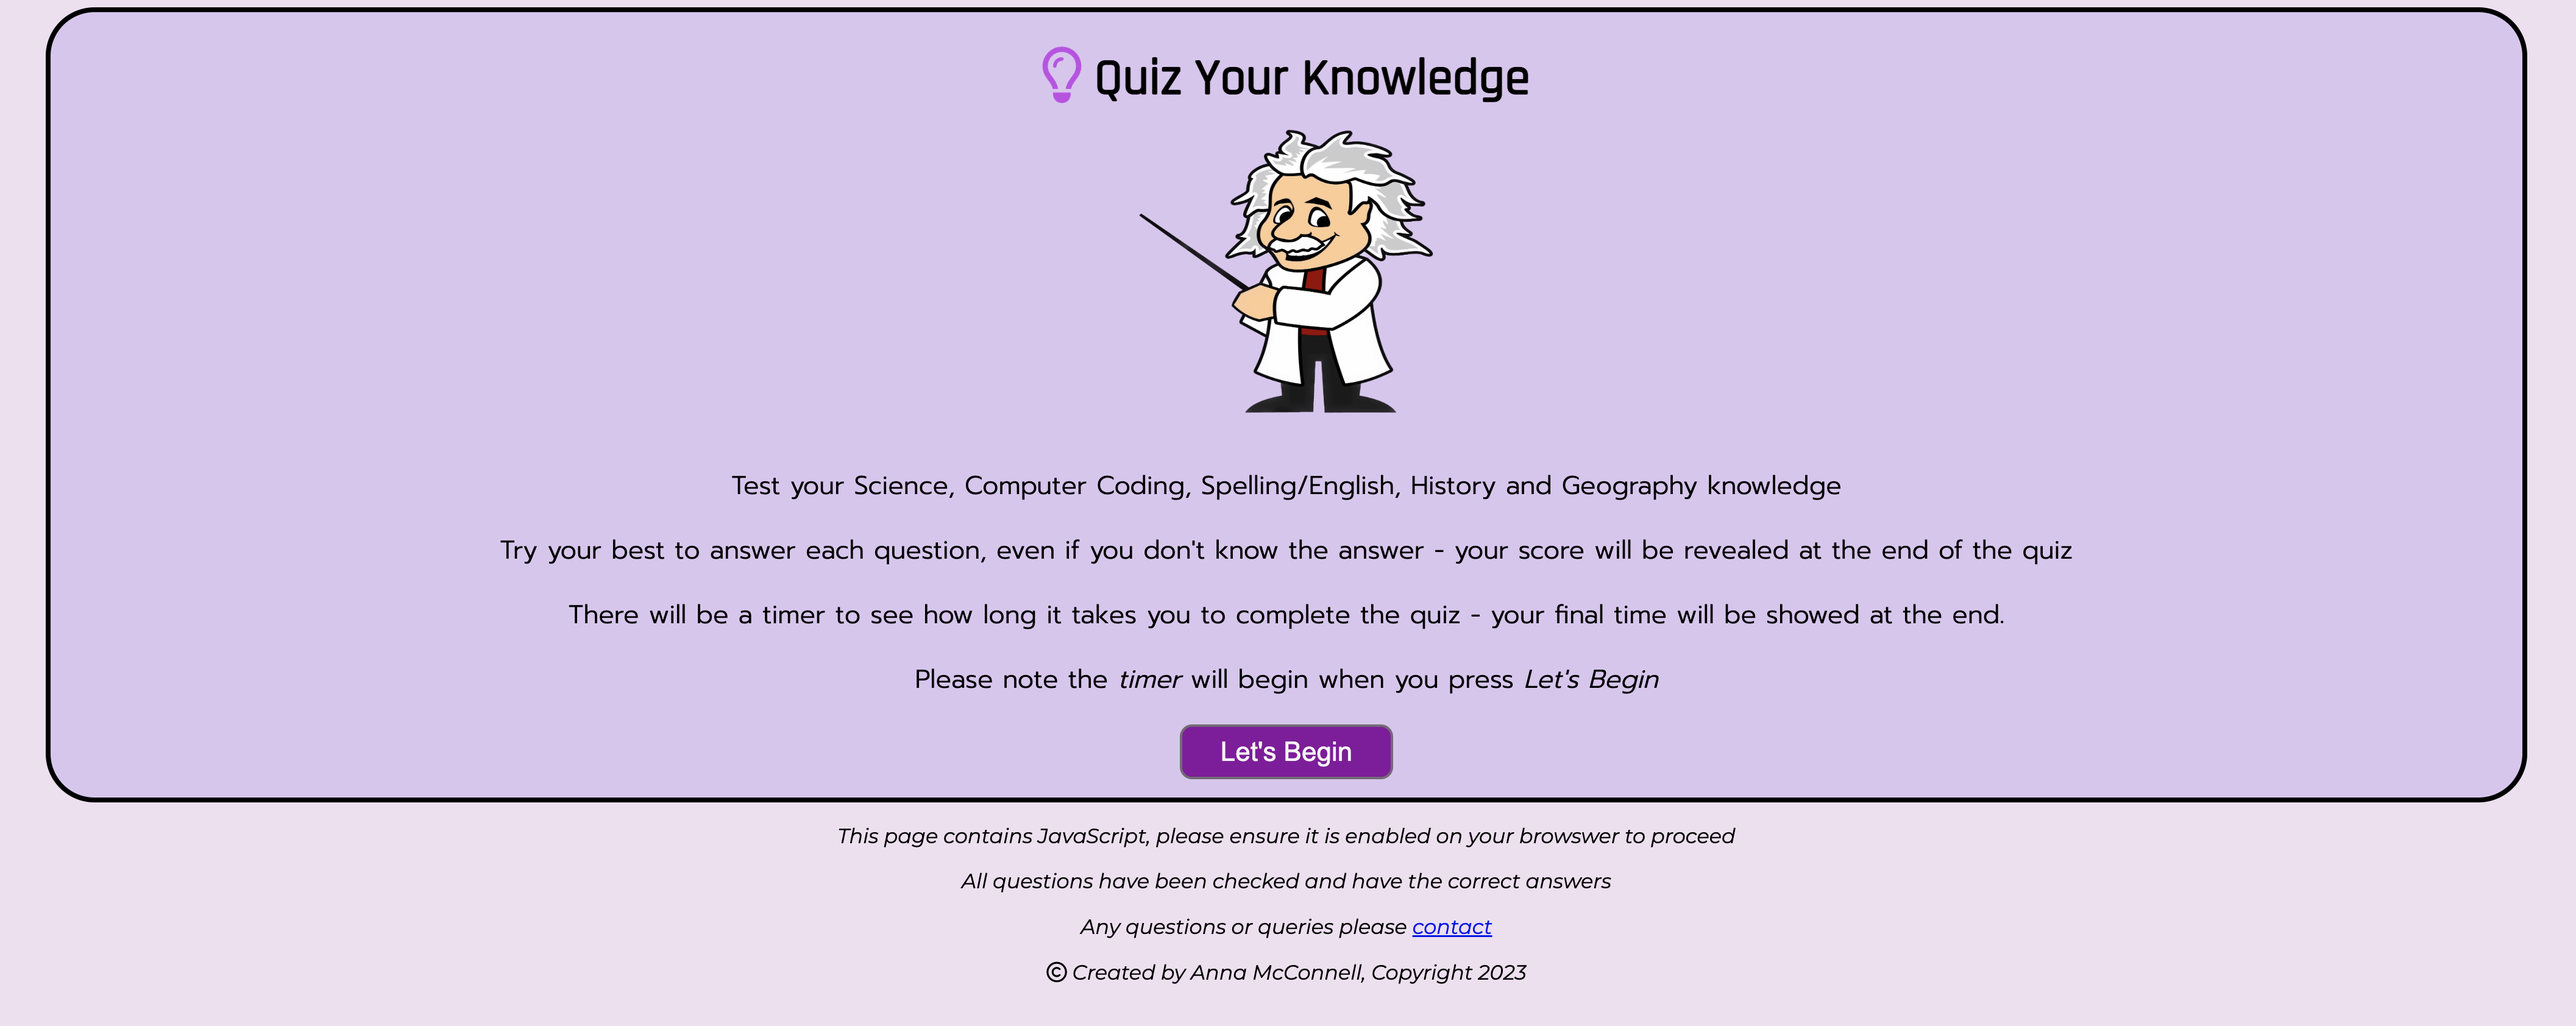
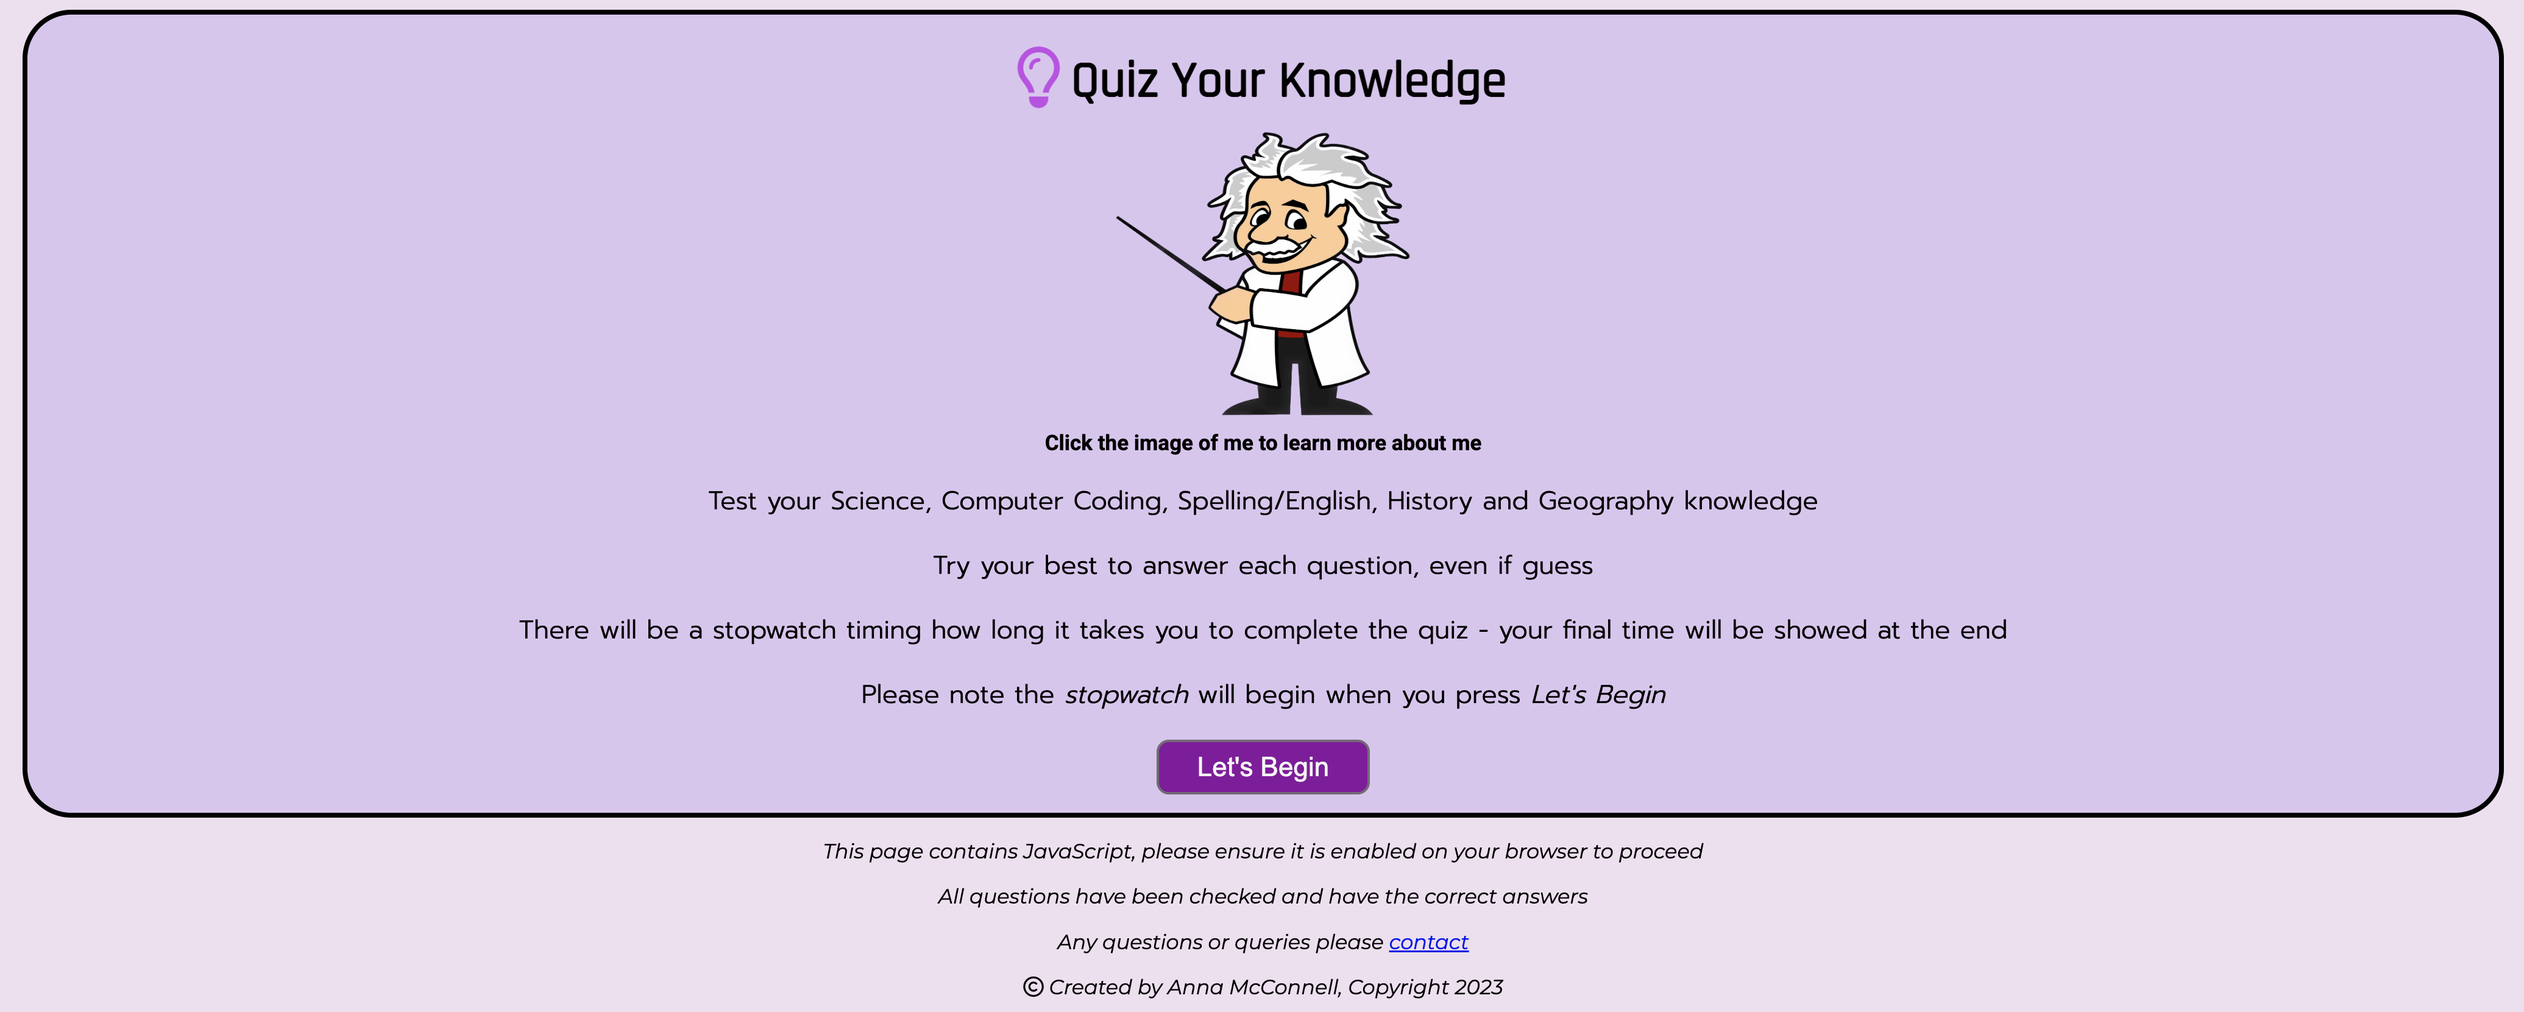
add further information into readme and edit line 166 of code for javascript to hide the home button at end of quiz

Changed region(s): [[0.0, 0.0, 0.9966, 0.9825], [0.4049, 0.0614, 0.5917, 0.1228]]

diff --git a/assets/js/script.js b/assets/js/script.js
@@ -163,6 +163,7 @@ function chooseOption(co) {
     } else {
         endBtn.innerText = "Go to Score";
         endBtn.classList.remove("hide");
+        homeBtn.classList.add("hide")
     }
 }
 

diff --git a/assets/css/style.css b/assets/css/style.css
@@ -182,8 +182,7 @@ div#click-me {
         width: 230px;
     }
 
-
-    .btn-spacing {
+    #home {
         margin-bottom: 3%;
     }
 

diff --git a/README.md b/README.md
@@ -1,9 +1,3 @@
-<!-- 
-https://codepen.io/gcarino/details/AaJBOo - although used this idea and followed along with the code, i did change it up and added my own things to it, I liked the idea however i didnt feel confident to create it on my own and needed the extra support. I did find a lot of struggles with this langauge because of all the math-like code and I have always struggled with maths, but I am confident the more I do and practise the easier it will become and I will understand it. - styled the css on my own - mainly used the JS part and the inital layout for the html for an idea on how to set it out. the rest i redesigned to my liking. - didnt end up using - DID NOT USE, check
-
-https://github.com/Code-Institute-Solutions/love-maths-2.0-sourcecode - lovemaths source code for the dom eventlisteners, the score count - unsure if using 
--->
-
 # **Quiz Your Knowledge**
 
 ## **Introduction**
@@ -56,7 +50,7 @@ In the future Quiz Your Knowledge hopes to expand and have a vareity of trivia a
 <li>Quiz Categories</li>
 <li>Quiz Types</li>
 <li>Progress Bar</li>
-<li>High Scores</li>
+<li>Scores and High Scores</li>
 </ul>
 </details>
 <details>
@@ -117,7 +111,7 @@ In this section, I will dicuss some of my personal thoughts about the creation o
 
 * Although I did find it fun creating the quiz when it eventually worked, there were many struggles and frustrations when things weren't going the way I wanted or planned. When code wasn't working the way I intended and having to change some of my ideas when actually implementing the quiz.
 * Initially I wanted to do radio buttons but I couldn't seem to get it to work the way I wanted it to so I decided to change this plan, this inital plan can be seen in the <a href=#inital-design>Inital Design</a> section. 
-* Another plan that I had to change was the original score count. I initally did not want to reveal the correct answer, as I wanted to add this as a future implementation, but as the score was not imcrementing the way I intended, I decided to reveal the correct answer so that it would increment the way needed to reveal the score at the end.
+* Another plan that I had to change was the original score count. I initally did not want to reveal the correct answer, as I wanted to add this as a future implementation, but as the score was not imcrementing the way I intended, I decided to reveal the correct answer and remove the score count as I could not get it to function correctly, and it was making me get more frustrated - once I get more comfortable and confident with the language I would like to try implementing this again.
 * I had many frustrations duting the creation of this project and the code I had originally worked on, was not going the way.I inteneded when trying to get it to display the answers correctly, and due to the timeframe of the project being due, and my frustrations, I had decided to remove that code and start again, testing a different way from a tutorial video, which is referenced in the <a href="#credits">Credits</a>. During this project I have relied a lot on outside help due to struggling a lot and getting frustrated and stressed over a lot of things, however there were a few wins during the project.
 * Overall, I did enjoy certain aspects of creating the quiz, there was most certainly a lot of stresses and frustrations, and even moments of wanting to give up completely. 
 
@@ -132,14 +126,15 @@ I did not use colours, fonts, images in the wireframe as I was unsure on what I 
 ### ***Wireframes***
 #### Main Page
 * This was the inital design for the main page of the quiz, there was not much of a different from the draft design compared with the implemented design. One of the main differeces is the decription of the quiz, this was edited for implementation of the quiz, apart from those few changes the design from the wireframe and the finished product remains the same.
+* I did decide to make the image clickable on the homepage, so that a small "about me" alert comes up when clicked that tells the user more about Albert Einstein, however once the quiz begins, you can no longer click on him.
 
 Wireframe for Main Page:
 <img src="assets/readme-images/Homepage-wireframe.png" alt="Main page wireframe design">
 
 #### Question Page
 * This was the inital design design for the question page for the quiz. The main difference is that rather than radio buttons being used for the quiz, standard select buttons were used instead. The reason for this was because the radio buttons were not functioning the way it was intended too and not appearing the way it should.
-* The next and back buttons both work the way I intended, however instead of having them appear right away, they only appear once an answer has been selected...
-<!-- Did alert work if answer not selected? is this needed if you only see answer when its been selected and highlighted when wrong.right -->
+* The "Next" button worked how I intended, however instead of having it appear right away, it would appear once and answer had been selected. The "Next" button disappears after each new question displays.
+* Rather than having a "Back" button, I changed it to a "Home" button as I decided to have the answers change colour whether the user selected the correct or incorrect one. This button is visable throghout all the questions, however when a user clicks on it, an alert pops up.
 * The question shown in the wireframe appeared in the quiz, however the answers were different.
 * I also deicded to keep the footer present on the page, rather than hide it.
 
@@ -147,7 +142,8 @@ Wireframe for Question Page:
 <img src="assets/readme-images/question-page-wireframe.png" alt="Question page wireframe design">
 
 #### Score Page
-* This was the inital design for the score page for the quiz. There is not much of a difference from the inital wireframe and the finished design. The only thing is that the footer remained present throughout.
+* This was the inital design for the score page for the quiz. Rather than having a score displayed on this page, it only shows how long it took the user to complete the quiz. The reason for this was being unable to implement the score counter correctly and running out of time.
+* The "Start Over" button will only appear on this page.
 
 Wireframe for Score Page:
 <img src="assets/readme-images/Scorepage-wireframe.png" alt="Score page wireframe design">
@@ -158,13 +154,14 @@ In this section I will discuss and go through the features that I implemented Qu
 
 All the fonts used for the quiz were chosen using [Google Fonts](https://fonts.google.com/) and maintained throughout the quiz, including fallback fonts incase the browser being used does not support the chosen font.
 
-<img src="" alt="Responsive Design exammple for main page">
+<img src="assets/readme-images/responsiveness-1.png" alt="Responsive Design exammple for main page">
 
 ### ***Exisiting Features***
 
 #### Title and Main Image
 * The title of the quiz is "Quiz Your Knowledge" and contains a [Font Awesome](https://fontawesome.com/) light bulb icon, which pulsates/beats - this is functionable across the different pages throughout the quiz and with responsiveness on different displays, and the title is displayed throughout the whole quiz.
 * The image used for the quiz is the well-known Physics legend Albert Einstein (also a question about him also appears in the quiz). The image was taken from the stock images avaliable through [Adobe](https://stock.adobe.com/uk/) - the main image is also displayed throughout the quiz
+* The image is also clickable, and once a user clicks the image, an alert will pop up showing some "About Me" information about Albert Einstein, however this function will stop working once the quiz begins.
 
 <img src="assets/readme-images/title-main-image.png" alt="Title and image of Albert Einstein"
 style="width:400px; margin: 0 30%; border-radius:5%">
@@ -178,32 +175,37 @@ style="width:400px; margin: 0 30%; border-radius:5%">
 <img src="assets/readme-images/intro.png" alt="Introduction section for the quiz" style="margin: 0 1%">
 
 #### Quiz Container
-* The Quiz Container is the section that holds the questions and answers for the quiz, which will refresh each time the next button is pressed.
+* The Quiz Container is the section that holds the questions and answers for the quiz, which will show the next question each time the "Next" button is pressed.
 * When going into the quiz container the introduction will disappear from the display to reveal the questions and answer buttons, as well as displaying the timer feature, starting a stopwatch going up by seconds to time the user.
-<!-- when selecting answer it changes colour - still need to implement -->
-* After an answer has been selected the next and back buttons will appear, allowing the user to move onto the next question.
+* After an answer has been selected the "Next" button will appear allow users to move onto the next question.
+* The answers will change colour depeding whether the user selected the correct or incorrect answer.
+* The "Home" button will be visable throughout the actual question portion, however it throws an alert when clicked - this is the function implemented by design.
 
-<img src="assets/readme-images/quiz-container.png" alt="Quiz container" style="margin: 0 1%"> 
-<!-- replace image once page functioning correctly  -->
+<img src="assets/readme-images/quiz-container-1.png" alt="Quiz container before clicking answer" style="margin: 0 1%">
+<img src="assets/readme-images/quiz-container-2.png" alt="Quiz container before clicking answer" style="margin: 0 1%">
 
 #### Buttons and Alerts
 * There are 6 buttons in the quiz that all have different functions, these buttons are:
     * Let's Begin - this button takes users to the start of the quiz and displays the first question, it also removes the main introduction content, and introduces the stopwatch feature for the quiz. This button will then disappear once the quiz begins. 
     <br>
-    <img src="assets/readme-images/begin-button.png" alt="Let's begin button" style="width:200px; margin: 0 30%;">
-    * Answer button - these are the answer buttons that appear for the quiz... <img src="" alt="">
-    <!-- edit this section once code fixed -->
-    * Next - this button appears once an answer has been selected, and once clicked will take users to the next question, and then it will be hidden again, until an answer has been selected. This prevents users from skipping questions... <img src="" alt="">
-    <!-- edit this section once code fixed -->
-    * Back - this button appears once and answer has been selected, however will throw an alert once clicked. This was done on purpose to show that the quiz is still being implemented. This button will also disappear once the "next" button has been selected and the next question is displayed. <img src="" alt="">
-     <!-- might delete -->
-    * Go to Score - this button will only appear once the final question has been answered instead of "next" and "back" and it will take users to the score page, where the final time and score will be displayed. <img src="" alt="">
-    * Start Over - this button will only appear on the score page and when clicked will take the user back to the main page, with the introduction to the quiz. <img src="" alt="">
+    <img src="assets/readme-images/begin-button.png" alt="Let's begin button" style="width:200px; margin: 0 35%;">
+    * Answer button - these are the answer buttons that appear for the quiz, they appear a standard colour, until one has been pressed, then they change colour depending whether the answer was right or wrong <br>
+    <img src="assets/readme-images/answer-buttons.png" alt="Answer buttons" style="width:450px; margin: 0 20%;">
+    * Next - this button appears once an answer has been selected, and once clicked will take users to the next question, and then it will be hidden again, until an answer has been selected. This method doesn't allow users to skip to the next question without attempting to answer it. <br>
+     <img src="assets/readme-images/next-button.png" alt="Next button" style="width:200px; margin: 0 35%;">
+    * Home - This button appears once the quiz begins and wil lonly disappear once the score page is displayed. This button is however not functional by design, and an alert will pop up once it has been clicked. The purpose of the button when it is functionally is to take users to the main page again.<br> 
+    <img src="assets/readme-images/home-button.png" alt="Home button" style="width:200px; margin: 0 35%;">
+    * Go to Score - this button will only appear once the final question has been answered instead of "Next" and "Home" buttons and it will take users to the score page, where the final time and score will be displayed. <br> 
+    <img src="assets/readme-images/go-to-score-button.png" alt="Go to score button" style="width:200px; margin: 0 35%;">
+    * Start Over - this button will only appear on the score page and when clicked will take the user back to the main page, with the introduction to the quiz. This is the only button that will show here, it has a simialr function to the "Home" button but this one is functionable <br> 
+    <img src="assets/readme-images/start-over-button.png" alt="Start over button" style="width:200px; margin: 0 35%;">
 * There are 3 alerts that pop up during the quiz, which occur when:
-    * When you click the "Let's Begin" button - when you this button and alert will pop up, letting users know that the quiz is about to begin and once they click "ok" the stopwatch will begin and the quiz will have started. <img src="" alt="">
-    * When you click the "Back" button - when clicked this will alert users that this button has not yet been implemented and to check back another time. This feature was purposefully added. <img src="" alt="">
-    * When you click the "Go to Score" button - when clicked this will alert users that the quiz has ended and will display the final score and time it took them to finish the quiz <img src="" alt="">
-    <!-- might delete -->
+    * When you click the "Let's Begin" button - when you this button and alert will pop up, letting users know that the quiz is about to begin and once they click "ok" the stopwatch will begin and the quiz will have started. <br>
+    <img src="assets/readme-images/lets-begin-alert.png" alt="Let's begin alert" style="width:500px; margin: 0 20%;">
+    * When you click the "Home" button - when clicked this will alert users that this button has not yet been implemented and to check back another time. This feature was purposefully added. <br>
+    <img src="assets/readme-images/home-button-alert.png" alt="Home button alert" style="width:500px; margin: 0 20%;">
+    * When you click the "Albert" Image - when clicked this will give users a small "About Me" feature about Albert Einstein, with some details about him that users may find interesting <br>
+    <img src="assets/readme-images/albert-alert.png" alt="Albert mage alert" style="width:500px; margin: 0 20%;">
 
 #### Stopwatch
 * This feature appears and starts as soon as the user goes to the question page and starts going up in seconds. The timer icon used for it is also from [Font Awesome](https://fontawesome.com/).
